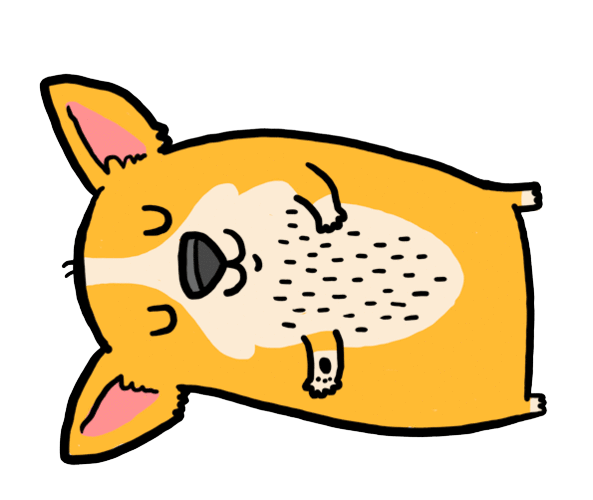
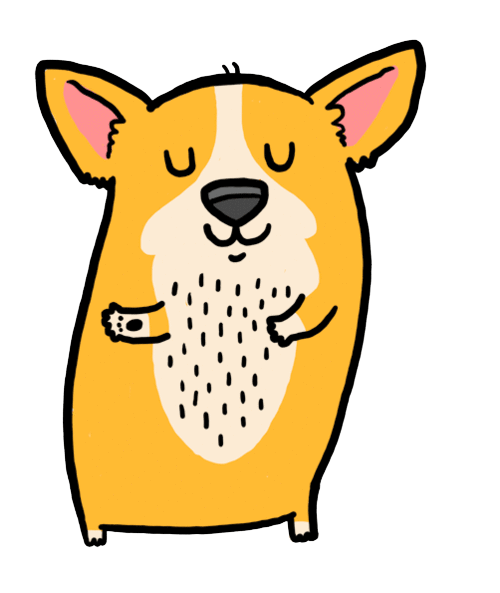
add viberate hit

diff --git a/core/src/com/mygdx/rhythm/GameScreen.java b/core/src/com/mygdx/rhythm/GameScreen.java
@@ -19,6 +19,7 @@ public class GameScreen implements Screen{
     int[] beatTime;
     int beatIndex = 0;
     float currentTime;
+    Boolean touchIsenabled= true;
     public GameScreen(RhythmGame rhythmGame){
         this.rhythmGame = rhythmGame;
         batch = new SpriteBatch();
@@ -35,26 +36,57 @@ public class GameScreen implements Screen{
         batch.begin();
         batch.draw(Assets.background, 0, 0, width, height);
         currentTime =  Assets.music.getPosition()*1000;
-        if(Math.abs(currentTime-beatTime[beatIndex])<200){
+        rhythmGame.currentTime = currentTime;
+        if(Math.abs(currentTime-beatTime[beatIndex])<=200){
             batch.draw(Assets.hit, 10, 10);
+            rhythmGame.lastUpdate = beatTime[beatIndex];
+
         }else if(currentTime-beatTime[beatIndex]>200){
             beatIndex++;
         }
-        if(touch) {
-            if (isLeft) {
-                batch.draw(Assets.sprite_left,width-Assets.sprite_left.getWidth(),height/2-Assets.sprite_left.getHeight()/2);
-            } else {
-                batch.draw(Assets.sprite_right,width-Assets.sprite_right.getWidth(),height/2-Assets.sprite_right.getHeight()/2);
+
+
+        if(touchIsenabled){
+            if(touch) {
+                if (isLeft) {
+                    batch.draw(Assets.sprite_left,(width-Assets.sprite_left.getWidth())/2,height/2-Assets.sprite_left.getHeight()/2);
+                } else {
+                    batch.draw(Assets.sprite_right,(width-Assets.sprite_right.getWidth())/2,height/2-Assets.sprite_right.getHeight()/2);
+                }
+            }else {
+                batch.draw(Assets.sprite_corgi,(width-Assets.sprite_corgi.getWidth())/2,height/2-Assets.sprite_corgi.getHeight()/2);
             }
-        }else {
-            batch.draw(Assets.sprite_corgi,width-Assets.sprite_corgi.getWidth(),height/2-Assets.sprite_corgi.getHeight()/2);
+
+            try{
+                Thread.sleep(100);
+            } catch (InterruptedException e) {
+                e.printStackTrace();
+            }
+            touch = false;
+        }else{
+
+            if(rhythmGame.knock){
+                batch.draw(Assets.sprite_right,(width-Assets.sprite_right.getWidth())/2,height/2-Assets.sprite_right.getHeight()/2);
+            }else {
+                batch.draw(Assets.sprite_corgi, (width - Assets.sprite_corgi.getWidth()) / 2, height / 2 - Assets.sprite_corgi.getHeight() / 2);
+            }
+
+            try{
+                Thread.sleep(100);
+            } catch (InterruptedException e) {
+                e.printStackTrace();
+            }
+
+            if (rhythmGame.hasKnocked()){
+                batch.draw(Assets.hit, 100, 100);
+
+                System.out.println("Knock");
+            }
+
         }
-        try{
-            Thread.sleep(100);
-        } catch (InterruptedException e) {
-            e.printStackTrace();
-        }
-        touch = false;
+
+
+
         if(time<1000){
             time++;
         }else{
@@ -74,7 +106,7 @@ public class GameScreen implements Screen{
     public void generalUpadate(){
         if(Gdx.input.isTouched()){
             touch = true;
-            if(Gdx.input.getY()>Gdx.graphics.getHeight()/2){
+            if(Gdx.input.getX()<Gdx.graphics.getWidth()/2){
                 isLeft = true;
             }else{
                 isLeft = false;

diff --git a/android/src/com/mygdx/rhythm/AndroidLauncher.java b/android/src/com/mygdx/rhythm/AndroidLauncher.java
@@ -1,16 +1,88 @@
 package com.mygdx.rhythm;
 
+import android.content.Context;
+import android.hardware.Sensor;
+import android.hardware.SensorEvent;
+import android.hardware.SensorEventListener;
+import android.hardware.SensorManager;
 import android.os.Bundle;
+import android.widget.Toast;
 
 import com.badlogic.gdx.backends.android.AndroidApplication;
 import com.badlogic.gdx.backends.android.AndroidApplicationConfiguration;
 import com.mygdx.rhythm.RhythmGame;
 
-public class AndroidLauncher extends AndroidApplication {
+
+
+public class AndroidLauncher extends AndroidApplication implements SensorEventListener {
+
+	private SensorManager senSensorManager;
+	private Sensor senAccelerometer;
+	private RhythmGame Ourgame = new RhythmGame();
+	private long lastUpdate = 0;
+	private float last_x, last_y, last_z;
+	private static final int SHAKE_THRESHOLD = 150;
+
 	@Override
 	protected void onCreate (Bundle savedInstanceState) {
 		super.onCreate(savedInstanceState);
 		AndroidApplicationConfiguration config = new AndroidApplicationConfiguration();
-		initialize(new RhythmGame(), config);
+
+		initialize(Ourgame, config);
+		senSensorManager = (SensorManager) getSystemService(Context.SENSOR_SERVICE);
+		senAccelerometer = senSensorManager.getDefaultSensor(Sensor.TYPE_ACCELEROMETER);
+		senSensorManager.registerListener(this, senAccelerometer, SensorManager.SENSOR_DELAY_NORMAL);
+	}
+
+	@Override
+	public void onSensorChanged(SensorEvent sensorEvent) {
+		Sensor mySensor = sensorEvent.sensor;
+
+
+		if (mySensor.getType() == Sensor.TYPE_ACCELEROMETER) {
+			float x = sensorEvent.values[0];
+			float y = sensorEvent.values[1];
+			float z = sensorEvent.values[2];
+			long curTime = System.currentTimeMillis();
+
+			if ((curTime - lastUpdate) > 20) {
+				long diffTime = (curTime - lastUpdate);
+				lastUpdate = curTime;
+
+				float speed = Math.abs(z - last_z)/ diffTime * 10000;
+
+				if (speed > SHAKE_THRESHOLD) {
+
+					Toast.makeText(AndroidLauncher.this, "knock",
+							Toast.LENGTH_LONG).show();
+					//System.out.println("Knock!Knock!");
+					Ourgame.knock = true;
+
+				}
+				else {
+					Ourgame.knock = false;
+				}
+
+				//last_x = x;
+				//last_y = y;
+				last_z = z;
+			}
+		}
+	}
+
+	@Override
+	public void onAccuracyChanged(Sensor sensor, int accuracy) {
+
+	}
+
+	protected void onPause() {
+		super.onPause();
+		senSensorManager.unregisterListener(this);
+	}
+
+	protected void onResume() {
+		super.onResume();
+		senSensorManager.registerListener(this, senAccelerometer, SensorManager.SENSOR_DELAY_NORMAL);
 	}
 }
+

diff --git a/core/src/com/mygdx/rhythm/RhythmGame.java b/core/src/com/mygdx/rhythm/RhythmGame.java
@@ -6,12 +6,27 @@ import com.badlogic.gdx.graphics.GL20;
 import com.badlogic.gdx.graphics.Texture;
 import com.badlogic.gdx.graphics.g2d.SpriteBatch;
 
+
 public class RhythmGame extends Game {
 	MenuScreen menuScreen;
+	float lastUpdate = 0;
+	float currentTime = 0;
+	boolean knock = false;
+
 	@Override
 	public void create () {
 		Assets.load();
 		menuScreen = new MenuScreen(this);
 		setScreen(menuScreen) ;
+	}
+
+
+	public boolean hasKnocked () {
+		//currentTime = System.currentTimeMillis();
+		if (Math.abs(currentTime - lastUpdate)<400){
+			if (knock) {return true;}
+		}
+
+		return false;
 	}
 }
